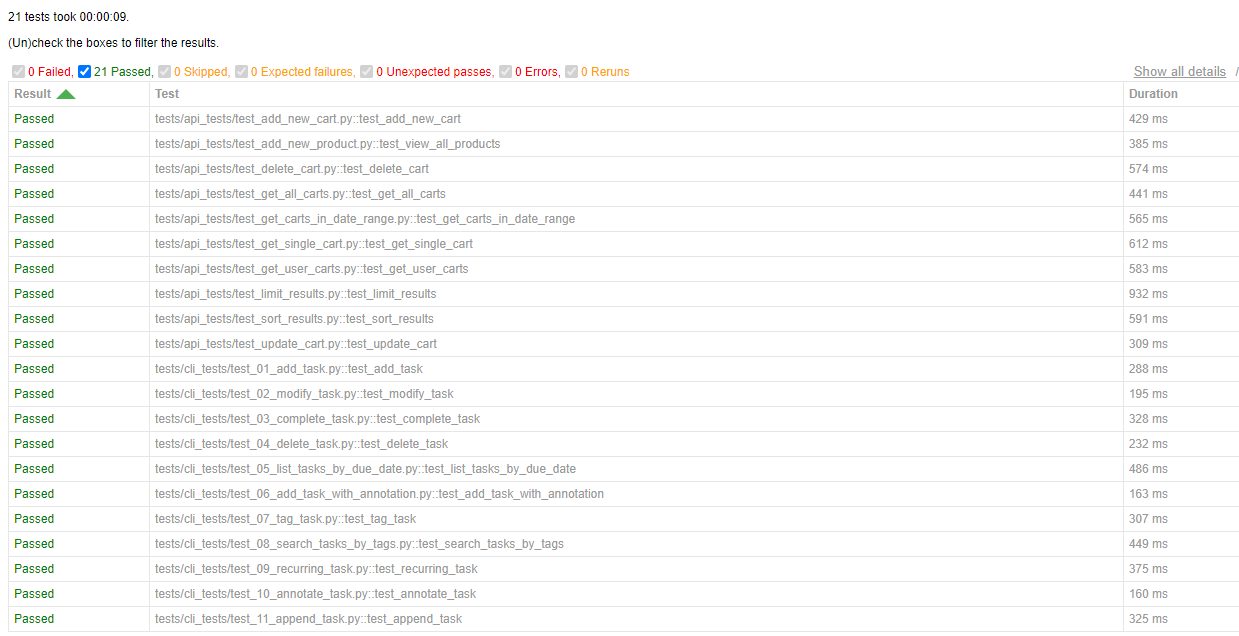
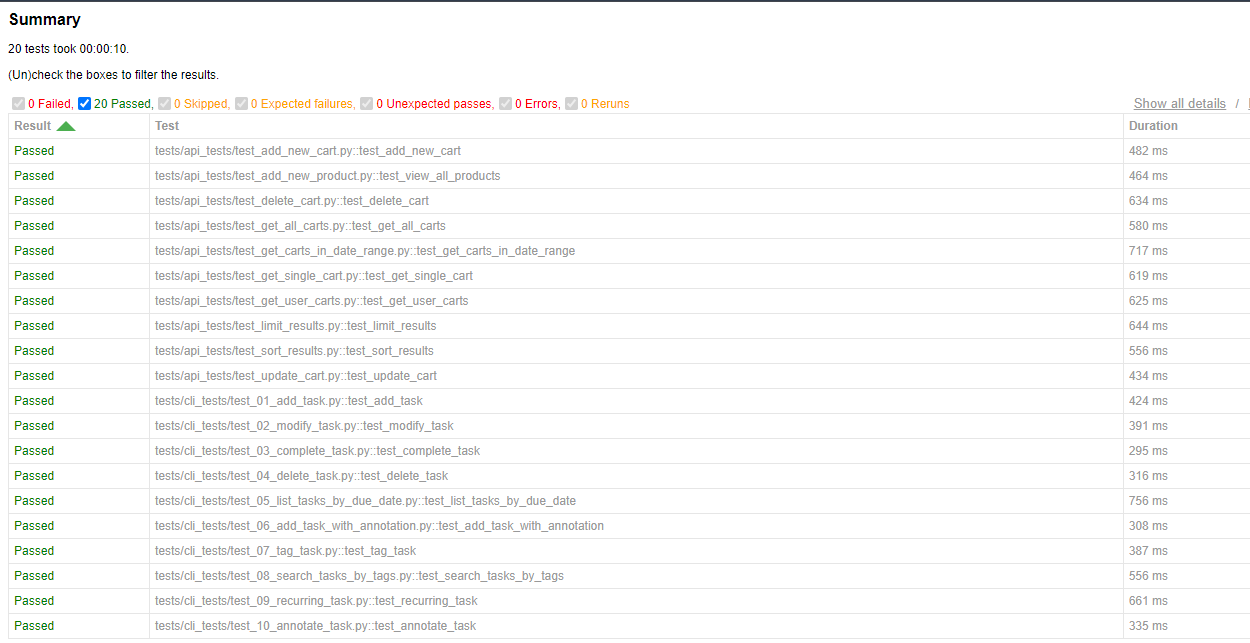
added conftest file, added fixtures and added logic to execute every program individually for cli_tests

diff --git a/tests/conftest.py b/tests/conftest.py
@@ -1,0 +1,37 @@
+import subprocess
+import pytest
+
+BASE_URL = "https://fakestoreapi.com"
+
+@pytest.fixture
+def base_url():
+    return BASE_URL
+
+@pytest.fixture
+def run_task_command():
+    def _run_task_command(command):
+        result = subprocess.run(command, shell=True, capture_output=True, text=True)
+        if result.returncode != 0:
+            print(f"Error running command '{command}': {result.stderr}")
+        return result.stdout.strip(), result.stderr.strip()
+
+    return _run_task_command
+
+def cleanup_tasks(run_task_command):
+    """Function to list all tasks and delete them."""
+    stdout, _ = run_task_command('task list')
+    lines = stdout.splitlines()
+    task_ids = []
+    for line in lines:
+        columns = line.split()
+        if columns and columns[0].isdigit():
+            task_ids.append(columns[0])
+    for task_id in task_ids:
+        run_task_command(f'task {task_id} rc.confirmation=no rc.bulk=0 delete')
+
+@pytest.fixture(autouse=True)
+def run_before_and_after_tests(run_task_command):
+    """Fixture to run cleanup before and after each test."""
+    cleanup_tasks(run_task_command)
+    yield
+    cleanup_tasks(run_task_command)

diff --git a/tests/cli_tests/test_04_delete_task.py b/tests/cli_tests/test_04_delete_task.py
@@ -1,10 +1,14 @@
-import pytest
-from utils import run_task_command
-
-def test_delete_task():
+def test_delete_task(run_task_command):
     run_task_command('task add "Task to be deleted" due:today')
-    run_task_command('task 3 rc.confirmation=no rc.bulk=0 delete')
+    stdout, _ = run_task_command('task list')
+    lines = stdout.splitlines()
+    task_ids = []
+    for line in lines:
+        columns = line.split()
+        if columns and columns[0].isdigit():
+            task_ids.append(columns[0])
+    for task_id in task_ids:
+        run_task_command(f'task {task_id} rc.confirmation=no rc.bulk=0 delete')
     stdout, _ = run_task_command('task list')
     assert "Task to be deleted" not in stdout
-    print(stdout)
 

diff --git a/tests/api_tests/test_add_new_product.py b/tests/api_tests/test_add_new_product.py
@@ -1,8 +1,6 @@
-import pytest
 import requests
-from config import BASE_URL
 
-def test_view_all_products():
+def test_view_all_products(base_url):
     add_new_product = {
         "title": 'test product',
         "price": 13.5,
@@ -11,7 +9,7 @@ def test_view_all_products():
         "category": 'electronic'
     }
 
-    response = requests.post(BASE_URL + "/products" , add_new_product)
+    response = requests.post(base_url + "/products" , add_new_product)
     added_product = response.json()
     assert added_product["title"] == "test product"
     assert add_new_product["title"]  == "test product"

diff --git a/tests/api_tests/test_sort_results.py b/tests/api_tests/test_sort_results.py
@@ -1,12 +1,11 @@
 import requests
-import pytest
-from config import BASE_URL
 
-def test_sort_results():
-    response = requests.get(f"{BASE_URL}/carts?sort=desc")
+def test_sort_results(base_url):
+    response = requests.get(f"{base_url}/carts?sort=desc")
     assert response.status_code == 200
     products = response.json()
     assert products
     product_ids = [product["id"] for product in products]
+    print("List to String convertion : " , str(product_ids))
     assert product_ids == sorted(product_ids, reverse=True)
-    print(response.json())
+    #print(response.json())

diff --git a/tests/cli_tests/test_06_add_task_with_annotation.py b/tests/cli_tests/test_06_add_task_with_annotation.py
@@ -1,9 +1,5 @@
-import pytest
-from utils import run_task_command
-
-def test_add_task_with_annotation():
+def test_add_task_with_annotation(run_task_command):
     run_task_command('task add "Research Berlin Places to Visit" due:tomorrow')
-    run_task_command('task 5 annotate "Visit Brandenburg Gate and Museum Island"')
-    stdout, _ = run_task_command('task 5 info')
+    run_task_command('task 1 annotate "Visit Brandenburg Gate and Museum Island"')
+    stdout, _ = run_task_command('task 1 info')
     assert "Visit Brandenburg Gate and Museum Island" in stdout
-    print(stdout)

diff --git a/tests/cli_tests/test_02_modify_task.py b/tests/cli_tests/test_02_modify_task.py
@@ -1,9 +1,5 @@
-import pytest
-from utils import run_task_command
-
-def test_modify_task():
+def test_modify_task(run_task_command):
     run_task_command('task add "Welcome to the Team" due:today')
-    run_task_command('task 2 modify description:"Welcome to the Team Arsalan" due:tomorrow')
-    stdout, _ = run_task_command('task 2 info')
+    run_task_command('task 1 modify description:"Welcome to the Team Arsalan" due:tomorrow')
+    stdout, _ = run_task_command('task 1 info')
     assert "Welcome to the Team Arsalan" in stdout
-    print(stdout)

diff --git a/tests/api_tests/test_update_cart.py b/tests/api_tests/test_update_cart.py
@@ -1,15 +1,13 @@
 import requests
-import pytest
-from config import BASE_URL
 
-def test_update_cart():
+def test_update_cart(base_url):
     cart_id = 7
     updated_cart = {
         "userId": 3,
         "date": "2019-12-10",
         "products": [{"productId": 1, "quantity": 3}]
     }
-    response = requests.put(f"{BASE_URL}/carts/{cart_id}", json=updated_cart)
+    response = requests.put(f"{base_url}/carts/{cart_id}", json=updated_cart)
     assert response.status_code == 200
     cart = response.json()
     assert cart['id'] == cart_id

diff --git a/tests/api_tests/test_add_new_cart.py b/tests/api_tests/test_add_new_cart.py
@@ -1,14 +1,12 @@
 import requests
-import pytest
-from config import BASE_URL
 
-def test_add_new_cart():
+def test_add_new_cart(base_url):
     new_cart = {
         "userId": 5,
         "date": "2020-02-03",
         "products": [{"productId": 5, "quantity": 1}, {"productId": 1, "quantity": 5}]
     }
-    response = requests.post(BASE_URL + "/carts", json=new_cart)
+    response = requests.post(base_url + "/carts", json=new_cart)
     assert response.status_code == 200
     cart = response.json()
     assert cart['id'] is not None

diff --git a/tests/cli_tests/test_07_tag_task.py b/tests/cli_tests/test_07_tag_task.py
@@ -1,10 +1,6 @@
-import pytest
-from utils import run_task_command
-
-def test_tag_task():
+def test_tag_task(run_task_command):
     run_task_command('task add "Plan Munich Tour in next month Vacation" due:eom')
-    run_task_command('task 6 modify +Vacation +Planning')
-    stdout, _ = run_task_command('task 6 info')
+    run_task_command('task 1 modify +Vacation +Planning')
+    stdout, _ = run_task_command('task 1 info')
     assert "Vacation" in stdout
     assert "Planning" in stdout
-    print(stdout)

diff --git a/tests/api_tests/test_get_carts_in_date_range.py b/tests/api_tests/test_get_carts_in_date_range.py
@@ -1,11 +1,9 @@
 import requests
-import pytest
-from config import BASE_URL
 
-def test_get_carts_in_date_range():
+def test_get_carts_in_date_range(base_url):
     start_date = "2019-12-10"
     end_date = "2020-10-10"
-    response = requests.get(f"{BASE_URL}/carts?startdate={start_date}&enddate={end_date}")
+    response = requests.get(f"{base_url}/carts?startdate={start_date}&enddate={end_date}")
     assert response.status_code == 200
     carts = response.json()
     for cart in carts:

diff --git a/tests/cli_tests/test_10_annotate_task.py b/tests/cli_tests/test_10_annotate_task.py
@@ -1,9 +1,5 @@
-import pytest
-from utils import run_task_command
-
-def test_annotate_task():
+def test_annotate_task(run_task_command):
     run_task_command('task add "Leetcode Test Preparation" due:eow')
-    run_task_command('task 10 annotate "Focus on Algorithms"')
-    stdout, _ = run_task_command('task 10 info')
+    run_task_command('task 1 annotate "Focus on Algorithms"')
+    stdout, _ = run_task_command('task 1 info')
     assert "Focus on Algorithms" in stdout
-    print(stdout)

diff --git a/tests/cli_tests/test_05_list_tasks_by_due_date.py b/tests/cli_tests/test_05_list_tasks_by_due_date.py
@@ -1,7 +1,4 @@
-import pytest
-from utils import run_task_command
-
-def test_list_tasks_by_due_date():
+def test_list_tasks_by_due_date(run_task_command):
     run_task_command('task add "Task 1" due:2024-06-05')
     run_task_command('task add "Task 2" due:2024-06-06')
     run_task_command('task add "Task 3" due:2024-06-07')
@@ -9,4 +6,3 @@ def test_list_tasks_by_due_date():
     assert "Task 1" in stdout
     assert "Task 2" in stdout
     assert "Task 3" in stdout
-    print(stdout)
